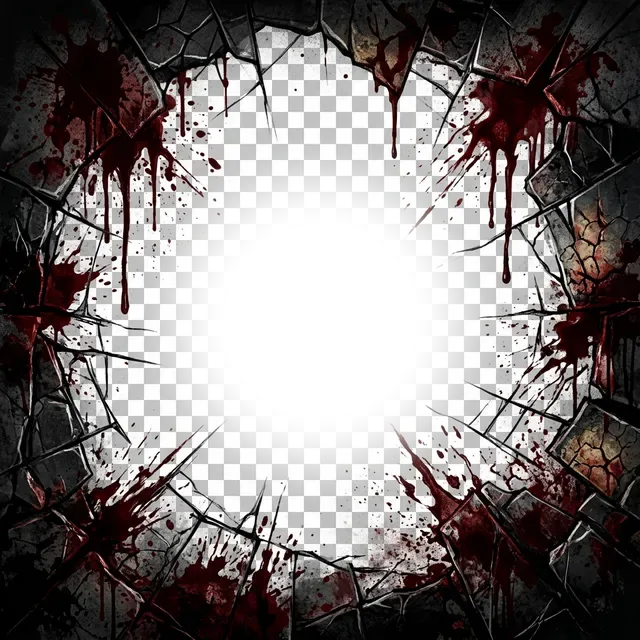
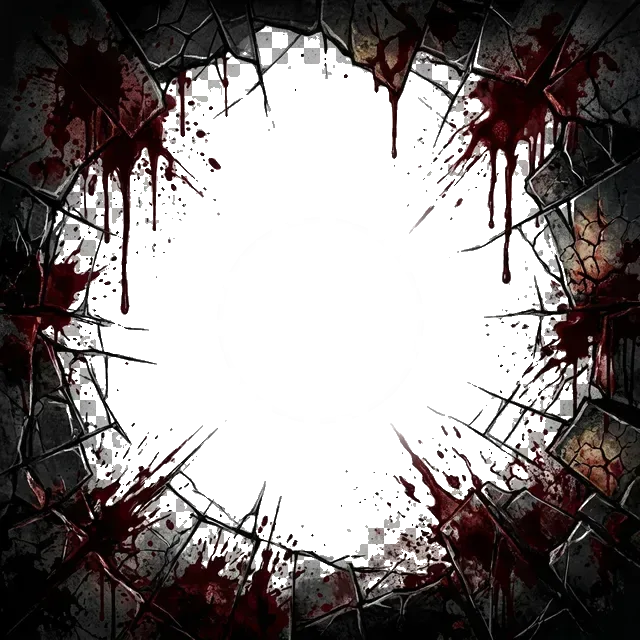
fix: 迷宮の残響ブラッシュアップ第2ラウンドの修正
- パララックス背景が表示されない問題を修正（z-index構造の見直し、Page背景の透明化）
- ガイダンスオーバーレイを6メッセージのローテーション表示に改善
- ガイダンスのtransform競合を修正（left:50%+translateX → margin:auto）
- タイトル・パララックス・ステータスオーバーレイのopacityを引き上げ
- 難易度カード背景画像のopacityを0.12→0.25に引き上げ
- panImageキーフレームアニメーション定義を追加
- le_overlay_injured.webpの市松模様パターンを除去
- シェア機能（share.ts）を削除（動作困難のため）

Changed region(s): [[0.0938, 0.0312, 0.9062, 0.9375], [0.9062, 0.5625, 0.9375, 0.5938], [0.0625, 0.5, 0.0938, 0.5312]]

diff --git a/src/features/labyrinth-echo/components/GameComponents.tsx b/src/features/labyrinth-echo/components/GameComponents.tsx
@@ -256,7 +256,7 @@ export const DiffCard = ({ d, hp, mn, inf, onSelect, cleared }: DiffCardProps) =
       position: "absolute", inset: 0,
       backgroundImage: `url(${LE_IMAGES.difficulty[d.id as keyof typeof LE_IMAGES.difficulty] || LE_IMAGES.difficulty.normal})`,
       backgroundSize: "cover", backgroundPosition: "center",
-      opacity: 0.12, mixBlendMode: "luminosity", pointerEvents: "none"
+      opacity: 0.25, mixBlendMode: "luminosity", pointerEvents: "none"
     }} />
     <div style={{ position: "relative", zIndex: 1 }}>
     <div style={{ display: "flex", justifyContent: "space-between", alignItems: "center", marginBottom: 8 }}>
@@ -353,22 +353,59 @@ export const EndingGrid = ({ endings, collected }: EndingGridProps) => (
   </div>
 );
 
-/** 初回プレイ用ガイダンスオーバーレイ */
+/** ガイダンスメッセージ一覧（ローテーションで表示） */
+const GUIDANCE_MESSAGES = [
+  { icon: "💡", title: "迷宮探索の心得", body: "選択肢はキーボード(1-9, ↑↓, Enter)でも決定できます。" },
+  { icon: "❤", title: "体力について", body: "体力(HP)が0になると探索失敗です。回復手段は限られています。" },
+  { icon: "◈", title: "精神について", body: "精神力が低下すると判断力が鈍り、不利な展開になりやすくなります。" },
+  { icon: "📖", title: "情報を集めよう", body: "情報値が高いほど有利な選択肢が見えるようになります。" },
+  { icon: "⚔", title: "慎重に進もう", body: "無理せず安全な選択肢を選ぶのも立派な戦略です。" },
+  { icon: "🔄", title: "死は終わりではない", body: "失敗しても得た知見は次の探索に引き継がれます。" },
+];
+
+/** ガイダンスの表示間隔（ミリ秒） */
+const GUIDANCE_INTERVAL = 5000;
+
+/** 初回プレイ用ガイダンスオーバーレイ（ローテーション表示） */
 export const GuidanceOverlay = ({ show }: GuidanceOverlayProps) => {
+  const [index, setIndex] = useState(0);
+  const [visible, setVisible] = useState(true);
+
+  useEffect(() => {
+    if (!show) return;
+    const timer = setInterval(() => {
+      // フェードアウト → メッセージ切替 → フェードイン
+      setVisible(false);
+      setTimeout(() => {
+        setIndex(prev => (prev + 1) % GUIDANCE_MESSAGES.length);
+        setVisible(true);
+      }, 400);
+    }, GUIDANCE_INTERVAL);
+    return () => clearInterval(timer);
+  }, [show]);
+
   if (!show) return null;
+  const msg = GUIDANCE_MESSAGES[index];
   return (
     <div style={{
-      position: "fixed", bottom: 20, left: "50%", transform: "translateX(-50%)",
+      position: "fixed", bottom: 20, left: 0, right: 0, margin: "0 auto",
       background: "rgba(15,23,42,0.95)", border: "1px solid rgba(99,102,241,0.4)",
       padding: "16px 20px", borderRadius: 12, zIndex: 100,
       boxShadow: "0 4px 30px rgba(0,0,0,0.6)", color: "var(--text)", fontFamily: "var(--sans)",
       animation: "fadeUp 0.6s ease-out", maxWidth: 400, width: "90%",
-      textAlign: "center", backdropFilter: "blur(4px)"
+      textAlign: "center", backdropFilter: "blur(4px)",
+      opacity: visible ? 1 : 0, transition: "opacity 0.4s ease",
     }}>
-      <div style={{ color: "#a5b4fc", fontSize: 12, fontWeight: 700, marginBottom: 8, letterSpacing: 2 }}>💡 迷宮探索の心得</div>
-      <div style={{ fontSize: 12, lineHeight: 1.8, color: "var(--dim)" }}>
-        選択肢は<strong>キーボード(1-9, ↑↓, Enter)</strong>でも決定できます。<br/>
-        <span style={{color:"#f87171"}}>体力(HP)</span>と<span style={{color:"#a78bfa"}}>精神(◈)</span>に気を配り、時には<span style={{color:"#fbbf24"}}>情報</span>を集めながら深く潜りましょう。
+      <div style={{ color: "#a5b4fc", fontSize: 12, fontWeight: 700, marginBottom: 8, letterSpacing: 2 }}>{msg.icon} {msg.title}</div>
+      <div style={{ fontSize: 12, lineHeight: 1.8, color: "var(--dim)" }}>{msg.body}</div>
+      <div style={{ display: "flex", justifyContent: "center", gap: 4, marginTop: 8 }}>
+        {GUIDANCE_MESSAGES.map((_, i) => (
+          <div key={i} style={{
+            width: 6, height: 6, borderRadius: "50%",
+            background: i === index ? "#a5b4fc" : "rgba(120,120,160,0.3)",
+            transition: "background 0.3s",
+          }} />
+        ))}
       </div>
     </div>
   );

diff --git a/src/features/labyrinth-echo/components/EndScreens.tsx b/src/features/labyrinth-echo/components/EndScreens.tsx
@@ -10,7 +10,6 @@ import { Section } from './Section';
 import { DiffLabel, RecordPanel, EndingGrid } from './GameComponents';
 import { LE_IMAGES } from '../images';
 import { useKeyboardControl } from '../hooks';
-import { shareCard, ShareData } from '../share';
 
 /** ゲームオーバー画面の Props */
 interface GameOverScreenProps {
@@ -34,24 +33,10 @@ export const GameOverScreen = ({ Particles, player, meta, diff, floor, floorMeta
   const flavors = DEATH_FLAVORS[deathCause];
   const flavor = flavors[meta.runs % flavors.length];
 
-  const handleShare = () => {
-    const data: ShareData = {
-      status: "gameover",
-      title: `死因: ${deathCause}`,
-      diffName: diff?.name ?? "NORMAL",
-      floor: floor,
-      floorName: floorMeta?.name ?? "迷宮",
-      events: log?.length ?? 0,
-      kp: meta.kp,
-    };
-    shareCard(data);
-  };
-
   const menuActions = [
     startRun,
     ...(meta.kp > 0 ? [() => setPhase("unlocks")] : []),
     () => setPhase("title"),
-    handleShare
   ];
   const { selectedIndex, setSelectedIndex } = useKeyboardControl({
     optionsCount: menuActions.length,
@@ -106,7 +91,6 @@ export const GameOverScreen = ({ Particles, player, meta, diff, floor, floorMeta
         <button className={`btn btn-p tc ${selectedIndex === 0 ? 'selected' : ''}`} style={{ fontSize: 15 }} onMouseEnter={() => setSelectedIndex(0)} onClick={startRun}>再び挑む</button>
         {meta.kp > 0 && <button className={`btn tc ${selectedIndex === 1 ? 'selected' : ''}`} onMouseEnter={() => setSelectedIndex(1)} onClick={() => setPhase("unlocks")}>知見の継承 ◈ {meta.kp}pt</button>}
         <button className={`btn tc ${selectedIndex === (meta.kp > 0 ? 2 : 1) ? 'selected' : ''}`} onMouseEnter={() => setSelectedIndex(meta.kp > 0 ? 2 : 1)} onClick={() => setPhase("title")}>タイトル</button>
-        <button className={`btn tc ${selectedIndex === (meta.kp > 0 ? 3 : 2) ? 'selected' : ''}`} style={{ fontSize: 13, color: "var(--dim)" }} onMouseEnter={() => setSelectedIndex(meta.kp > 0 ? 3 : 2)} onClick={handleShare}>記録を共有する</button>
       </div>
     </Page>
   );
@@ -138,25 +122,10 @@ export const VictoryScreen = ({ Particles, ending, isNewEnding, isNewDiffClear, 
   const endingKey = end.id as EndingImageKey;
   const bgImg = LE_IMAGES.endings[endingKey] || LE_IMAGES.endings.standard;
 
-  const handleShare = () => {
-    const data: ShareData = {
-      status: "clear",
-      title: `エンディング: ${end.name}`,
-      diffName: diff?.name ?? "NORMAL",
-      floor: floor,
-      floorName: "迷宮踏破",
-      events: log?.length ?? 0,
-      kp: totalKp,
-      bgImgUrl: bgImg
-    };
-    shareCard(data);
-  };
-
   const menuActions = [
     startRun,
     () => setPhase("unlocks"),
     () => setPhase("title"),
-    handleShare
   ];
   const { selectedIndex, setSelectedIndex } = useKeyboardControl({
     optionsCount: menuActions.length,
@@ -244,7 +213,6 @@ export const VictoryScreen = ({ Particles, ending, isNewEnding, isNewDiffClear, 
         <button className={`btn btn-p tc ${selectedIndex === 0 ? 'selected' : ''}`} style={{ fontSize: 15 }} onMouseEnter={() => setSelectedIndex(0)} onClick={startRun}>新たな探索へ</button>
         <button className={`btn tc ${selectedIndex === 1 ? 'selected' : ''}`} onMouseEnter={() => setSelectedIndex(1)} onClick={() => setPhase("unlocks")}>知見の継承 ◈ {meta.kp}pt</button>
         <button className={`btn tc ${selectedIndex === 2 ? 'selected' : ''}`} onMouseEnter={() => setSelectedIndex(2)} onClick={() => setPhase("title")}>タイトル</button>
-        <button className={`btn tc ${selectedIndex === 3 ? 'selected' : ''}`} style={{ fontSize: 13, color: "var(--dim)" }} onMouseEnter={() => setSelectedIndex(3)} onClick={handleShare}>記録を共有する</button>
       </div>
     </Page>
   );

diff --git a/src/features/labyrinth-echo/components/Page.tsx b/src/features/labyrinth-echo/components/Page.tsx
@@ -8,6 +8,15 @@ interface PageProps {
   floor?: number;
 }
 
+/** パララックス背景とコンテンツの間に挟む半透明オーバーレイ */
+const DARK_OVERLAY: React.CSSProperties = {
+  position: "fixed",
+  inset: 0,
+  zIndex: 1,
+  pointerEvents: "none",
+  background: "linear-gradient(180deg, rgba(8,8,24,0.65) 0%, rgba(12,12,32,0.6) 40%, rgba(8,8,18,0.65) 100%)",
+};
+
 export const Page: React.FC<PageProps> = ({ children, particles, floor }) => {
   const [scrollProgress, setScrollProgress] = useState(0);
 
@@ -22,17 +31,25 @@ export const Page: React.FC<PageProps> = ({ children, particles, floor }) => {
       }
     };
     window.addEventListener('scroll', handleScroll, { passive: true });
-    // setTimeoutなどでDOM構築後に計算するようにするとなお良いが一旦即時呼び出し
     handleScroll();
     return () => window.removeEventListener('scroll', handleScroll);
   }, []);
 
+  // パララックス使用時は背景を透明にし、body の暗色背景 + パララックスが見えるようにする
+  const hasParallax = floor !== undefined;
+  const pageStyle = hasParallax
+    ? { ...PAGE_STYLE, background: "transparent" }
+    : PAGE_STYLE;
+
   return (
-    <div style={PAGE_STYLE}>
+    <div style={pageStyle}>
       <style>{CSS}</style>
-      {floor !== undefined && <ParallaxBg floor={floor} scrollProgress={scrollProgress} />}
-      {particles}
-      {children}
+      {hasParallax && <ParallaxBg floor={floor} scrollProgress={scrollProgress} />}
+      {hasParallax && <div style={DARK_OVERLAY} />}
+      <div style={{ position: "relative", zIndex: 2 }}>
+        {particles}
+        {children}
+      </div>
     </div>
   );
 };

diff --git a/src/features/labyrinth-echo/components/ParallaxBg.tsx b/src/features/labyrinth-echo/components/ParallaxBg.tsx
@@ -69,12 +69,12 @@ export const ParallaxBg: React.FC<ParallaxBgProps> = ({ floor, scrollProgress })
   };
 
   return (
-    <div style={{ position: 'fixed', inset: 0, zIndex: -4, pointerEvents: 'none', overflow: 'hidden' }}>
+    <div style={{ position: 'fixed', inset: 0, zIndex: 0, pointerEvents: 'none', overflow: 'hidden' }}>
       {bgImages.far && (
         <div style={{
             ...baseStyle,
-            zIndex: -3,
-            opacity: getOpacity(0.4),
+            zIndex: 1,
+            opacity: getOpacity(0.7),
             filter: 'blur(2px)',
             backgroundImage: `url(${bgImages.far})`,
             transform: `translateY(${farOffset}px)`
@@ -83,8 +83,8 @@ export const ParallaxBg: React.FC<ParallaxBgProps> = ({ floor, scrollProgress })
       {bgImages.mid && (
         <div style={{
             ...baseStyle,
-            zIndex: -2,
-            opacity: getOpacity(0.3),
+            zIndex: 2,
+            opacity: getOpacity(0.55),
             filter: 'blur(1px)',
             backgroundImage: `url(${bgImages.mid})`,
             transform: `translateY(${midOffset}px)`
@@ -93,8 +93,8 @@ export const ParallaxBg: React.FC<ParallaxBgProps> = ({ floor, scrollProgress })
       {bgImages.near && (
         <div style={{
             ...baseStyle,
-            zIndex: -1,
-            opacity: getOpacity(0.2),
+            zIndex: 3,
+            opacity: getOpacity(0.4),
             backgroundImage: `url(${bgImages.near})`,
             transform: `translateY(${nearOffset}px)`
         }} />

diff --git a/src/features/labyrinth-echo/components/TitleScreen.tsx b/src/features/labyrinth-echo/components/TitleScreen.tsx
@@ -70,7 +70,7 @@ export const TitleScreen = ({ meta, Particles, startRun, enableAudio, setPhase, 
         position: "absolute", inset: -30,
         backgroundImage: `url(${LE_TITLE_LAYERS.far || LE_IMAGES.title})`,
         backgroundSize: "cover", backgroundPosition: "center",
-        opacity: 0.2, filter: `blur(8px) ${runFilter}`, zIndex: -2,
+        opacity: 0.5, filter: `blur(8px) ${runFilter}`, zIndex: -2,
         transform: `translate(${farX}px, ${farY}px)`,
         willChange: "transform"
       }} />
@@ -78,7 +78,7 @@ export const TitleScreen = ({ meta, Particles, startRun, enableAudio, setPhase, 
         position: "absolute", inset: -30,
         backgroundImage: `url(${LE_TITLE_LAYERS.mid || LE_IMAGES.title})`,
         backgroundSize: "cover", backgroundPosition: "center",
-        opacity: 0.3, filter: `blur(4px) ${runFilter}`, zIndex: -1,
+        opacity: 0.55, filter: `blur(4px) ${runFilter}`, zIndex: -1,
         transform: `translate(${midX}px, ${midY}px)`,
         willChange: "transform"
       }} />
@@ -86,7 +86,7 @@ export const TitleScreen = ({ meta, Particles, startRun, enableAudio, setPhase, 
         position: "absolute", inset: -30,
         backgroundImage: `url(${LE_IMAGES.title})`,
         backgroundSize: "cover", backgroundPosition: "center",
-        opacity: 0.4, filter: `blur(2px) ${runFilter}`, zIndex: 0,
+        opacity: 0.6, filter: `blur(2px) ${runFilter}`, zIndex: 0,
         transform: `translate(${nearX}px, ${nearY}px)`,
         willChange: "transform"
       }} />

diff --git a/src/features/labyrinth-echo/styles.ts b/src/features/labyrinth-echo/styles.ts
@@ -7,6 +7,7 @@
 
 export const CSS = `
 *{box-sizing:border-box;margin:0;padding:0}
+body{background:#080818;min-height:100vh}
 :root{--bg:#0a0a18;--card:rgba(14,14,28,0.92);--border:rgba(80,80,130,0.2);--text:#d0d0e0;--dim:#7878a0;--bright:#f0f0ff;--sans:-apple-system,BlinkMacSystemFont,'Segoe UI','Hiragino Sans',sans-serif;--serif:Georgia,'Hiragino Mincho ProN','Yu Mincho',serif}
 @keyframes fadeUp{from{opacity:0;transform:translateY(20px)}to{opacity:1;transform:translateY(0)}}
 @keyframes fadeIn{from{opacity:0}to{opacity:1}}
@@ -23,6 +24,7 @@ export const CSS = `
 @keyframes statusPulse{0%,100%{opacity:.7}50%{opacity:1}}
 @keyframes slideIn{from{opacity:0;transform:translateX(-12px)}to{opacity:1;transform:translateX(0)}}
 @keyframes floorReveal{0%{opacity:0;transform:scale(0.9)}50%{opacity:1}100%{opacity:1;transform:scale(1)}}
+@keyframes panImage{0%{transform:scale(1.08) translateX(-2%)}100%{transform:scale(1.08) translateX(2%)}}
 @keyframes endingGlow{0%,100%{filter:brightness(1)}50%{filter:brightness(1.3)}}
 @keyframes popIn{0%{transform:scale(0.8);opacity:0}50%{transform:scale(1.08)}100%{transform:scale(1);opacity:1}}
 @keyframes dangerPulse{0%,100%{opacity:.9}50%{opacity:.55}}

diff --git a/src/features/labyrinth-echo/components/StatusOverlay.tsx b/src/features/labyrinth-echo/components/StatusOverlay.tsx
@@ -16,11 +16,11 @@ const STATUS_KEY_MAP: Record<string, string> = {
 };
 
 const OPACITY_MAP: Record<string, number> = {
-  injured: 0.3,
-  confused: 0.25,
-  bleeding: 0.35,
-  fear: 0.3,
-  curse: 0.2,
+  injured: 0.45,
+  confused: 0.4,
+  bleeding: 0.5,
+  fear: 0.45,
+  curse: 0.35,
 };
 
 const ANIMATION_MAP: Record<string, string> = {
